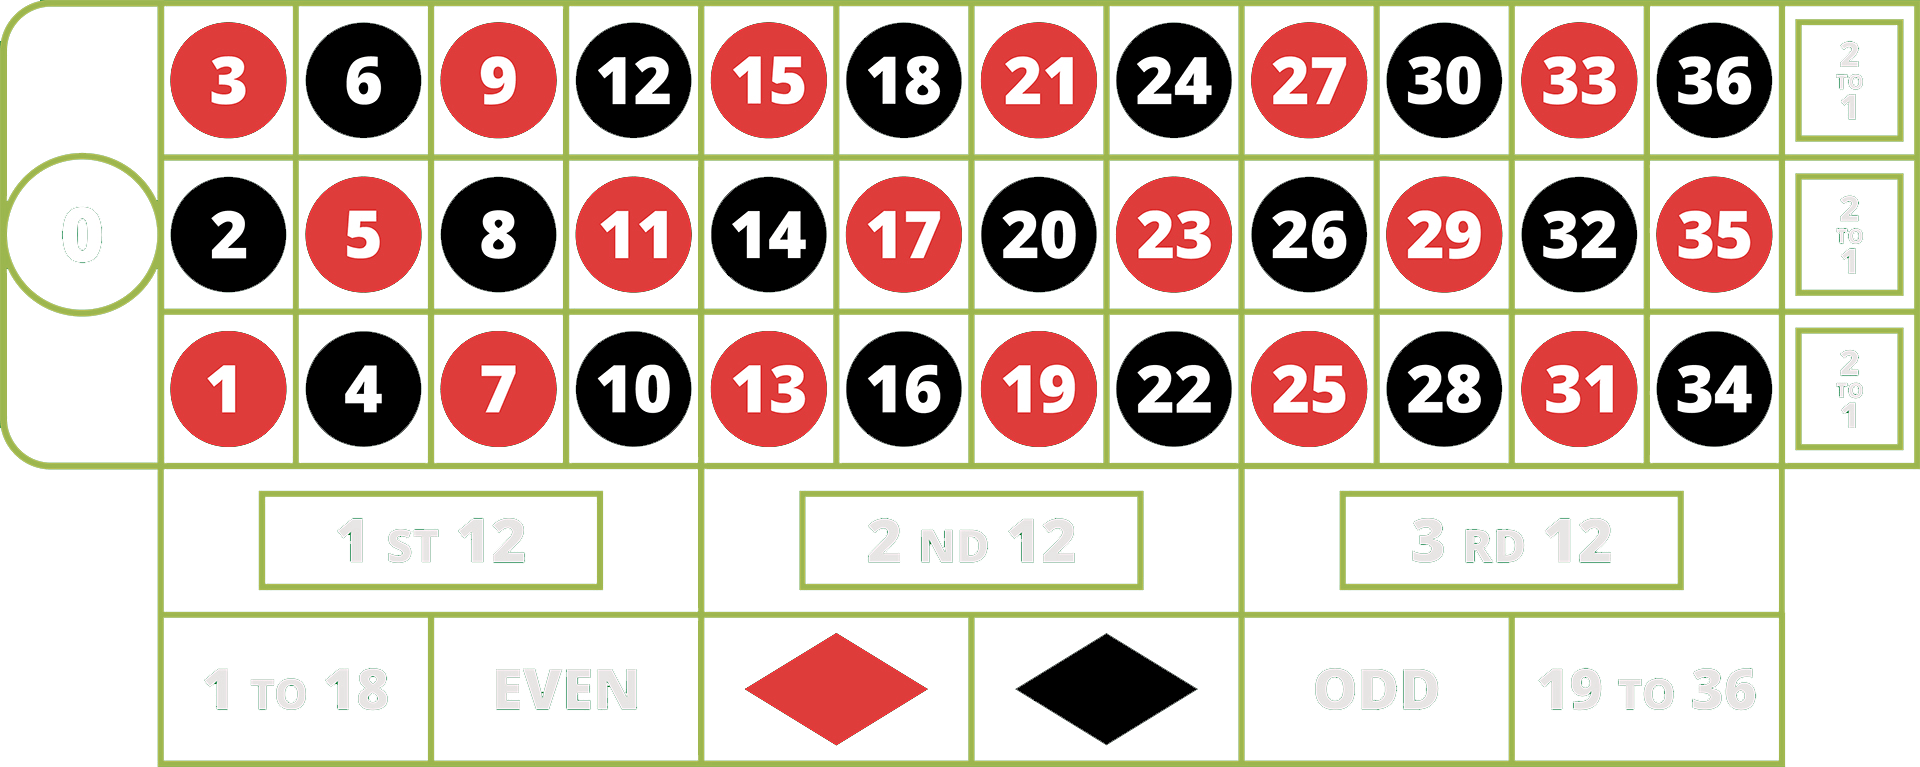
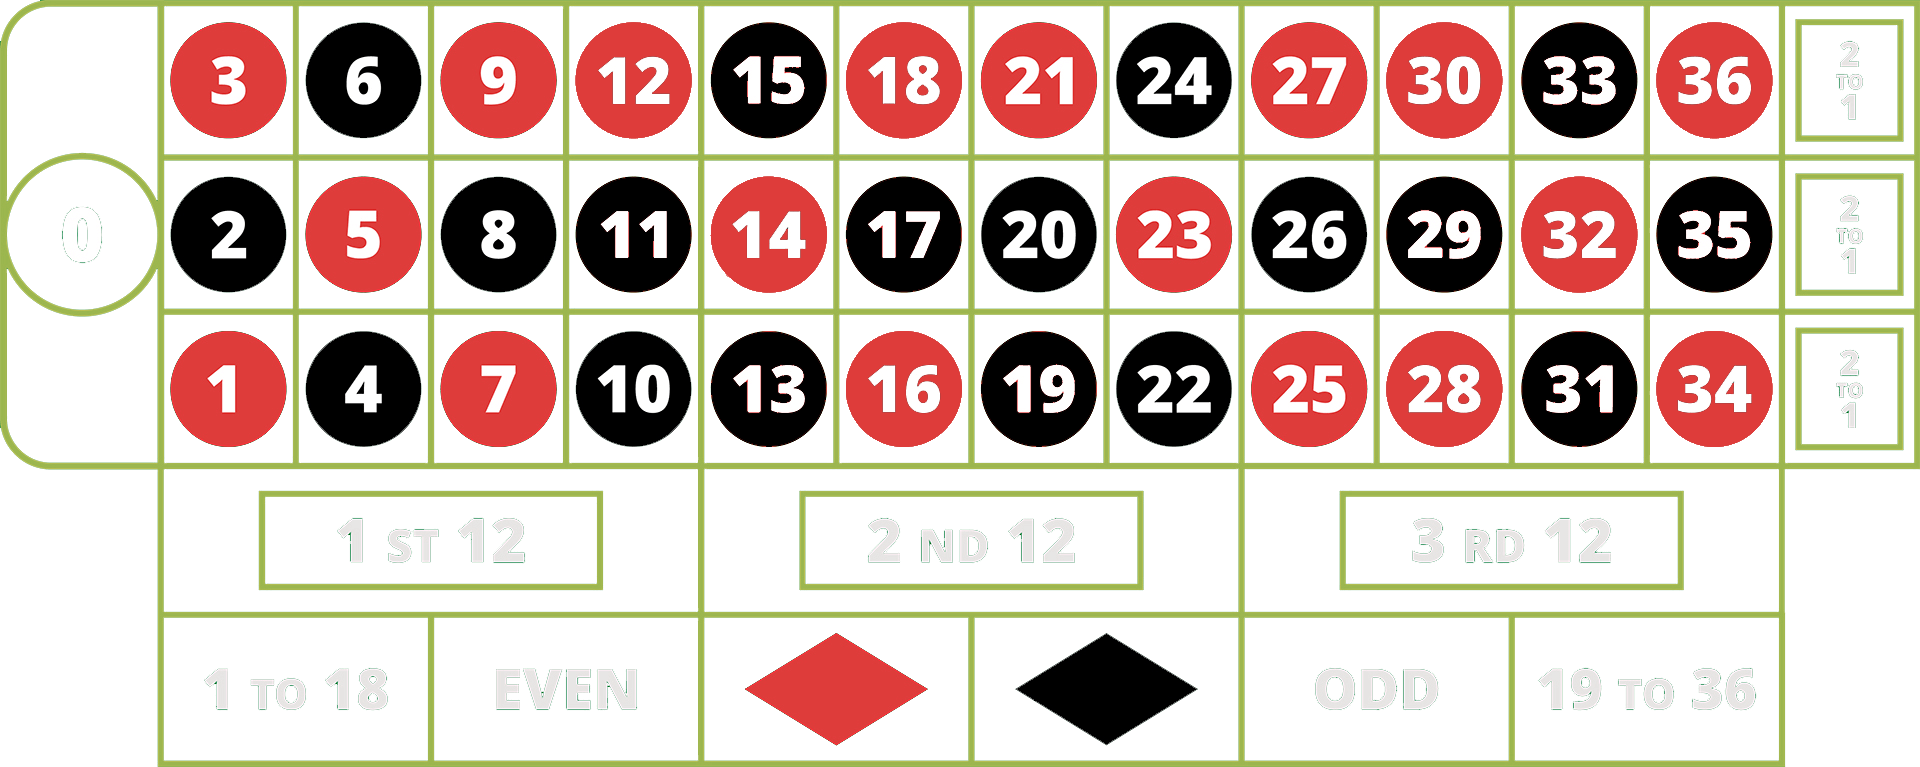
Fixed roulette wheel and table colors

diff --git a/frontend/src/components/RouletteGame/RouletteGame.tsx b/frontend/src/components/RouletteGame/RouletteGame.tsx
@@ -77,6 +77,8 @@ export default function RouletteGame() {
     console.log('betting ' + value);
   };
   const RouletteFields = [0, 32, 15, 19, 4, 21, 2, 25, 17, 34, 6, 27, 13, 36, 11, 30, 8, 23, 10, 5, 24, 16, 33, 1, 20, 14, 31, 9, 22, 18, 29, 7, 28, 12, 35, 3, 26];
+  const RouletteReds = [32, 19, 21, 25, 34, 27, 36, 30, 23, 5, 16, 1, 14, 9, 18, 7, 12, 3];
+  const RouletteBlacks = [15, 4, 2, 17, 6, 13, 11, 8, 10, 24, 33, 20, 31, 22, 29, 28, 35, 26];
 
   // Sends chosen numbers and bets to the backend, returns the random number and the amount of money the player has
 
@@ -116,7 +118,7 @@ export default function RouletteGame() {
 
         for (let i = 0; i < RouletteFields.length; i++) {
           if (returnedNumber == RouletteFields[i]) {
-            let rouletteAngle = 10 * i - 5;
+            let rouletteAngle = (360 / 37) * i;
             spinRoulette(rouletteAngle);
             setTimeout(() => {
               if (prize > 0) {
@@ -177,7 +179,7 @@ export default function RouletteGame() {
 
   const pastItems = pastNumbers.map((number) => (
     <div className="pastnumber-wrapper">
-      <div>{number}</div>
+      <div className={`${number === 0 ? 'pastnumber-green' : RouletteReds.includes(number) ? 'pastnumber-red' : 'pastnumber-black'}`}>{number}</div>
     </div>
   ));
 
@@ -393,8 +395,8 @@ export default function RouletteGame() {
                   <div className="roulette-table-row-thirdHalves">
                     <div onClick={(event) => betOnNumber(event, [1, 2, 3, 4, 5, 6, 7, 8, 9, 10, 11, 12, 13, 14, 15, 16, 17, 18])}></div>
                     <div onClick={(event) => betOnNumber(event, [2, 4, 6, 8, 10, 12, 14, 16, 18, 20, 22, 24, 26, 28, 30, 32, 34, 36])}></div>
-                    <div onClick={(event) => betOnNumber(event, [1, 3, 5, 7, 9, 11, 13, 15, 17, 19, 21, 23, 25, 27, 29, 31, 33, 35])}></div>
-                    <div onClick={(event) => betOnNumber(event, [2, 4, 6, 8, 10, 12, 14, 16, 18, 20, 22, 24, 26, 28, 30, 32, 34, 36])}></div>
+                    <div onClick={(event) => betOnNumber(event, [32, 19, 21, 25, 34, 27, 36, 30, 23, 5, 16, 1, 14, 9, 18, 7, 12, 3])}></div>
+                    <div onClick={(event) => betOnNumber(event, [15, 4, 2, 17, 6, 13, 11, 8, 10, 24, 33, 20, 31, 22, 29, 28, 35, 26])}></div>
                     <div onClick={(event) => betOnNumber(event, [1, 3, 5, 7, 9, 11, 13, 15, 17, 19, 21, 23, 25, 27, 29, 31, 33, 35])}></div>
                     <div onClick={(event) => betOnNumber(event, [19, 20, 21, 22, 23, 24, 25, 26, 27, 28, 29, 30, 31, 32, 33, 34, 35, 36])}></div>
                   </div>

diff --git a/frontend/src/components/RouletteGame/RouletteGame.modules.css b/frontend/src/components/RouletteGame/RouletteGame.modules.css
@@ -151,18 +151,32 @@
 }
 
 .pastnumber-wrapper > div {
-  aspect-ratio: 1;
   width: 80%;
-  max-width: 40px;
+  max-width: 2rem;
   justify-content: center;
   display: flex;
   font-size: 1.3rem;
   font-weight: 800;
-  color: white;
-  background-color: black;
-  border-radius: 20px;
   align-items: center;
+  border-bottom-width: 5px;
+  border-bottom-style: solid;
+  box-sizing: border-box;
 }
+
+.pastnumber-green {
+  border-color: green;
+  color: green;
+}
+
+.pastnumber-black {
+  border-color: black;
+  color: black;
+}
+.pastnumber-red {
+  border-color: red;
+  color: red;
+}
+
 .roulette-right {
   width: 55%;
   height: 100%;
